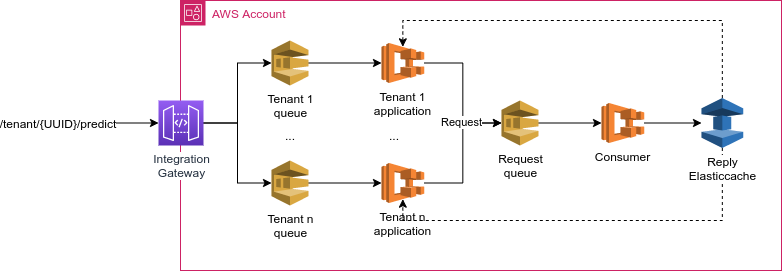
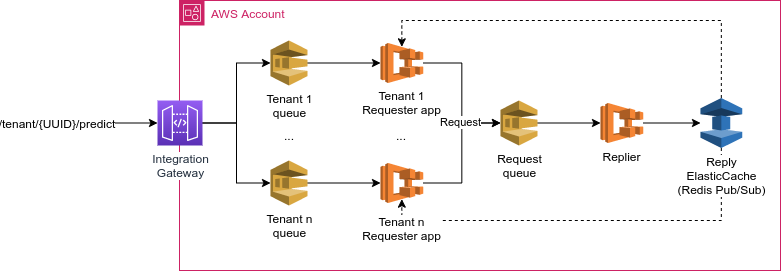
update naming in README.md

diff --git a/README.md b/README.md
@@ -1,6 +1,8 @@
 # Async request-reply prototype
 
-A simple prototype for a multi-tenancy async request/reply system, as shown in the figure:
+A simple prototype for a multi-tenancy, async request/reply system, as shown in the figure:
 
 <img src="resources/architecture.png" />
 
+To avoid AWS expenses we run both the Requester and Replier applications locally.
+ElasticCache also have been replaced by [Redis running in Docker](https://hub.docker.com/_/redis).
